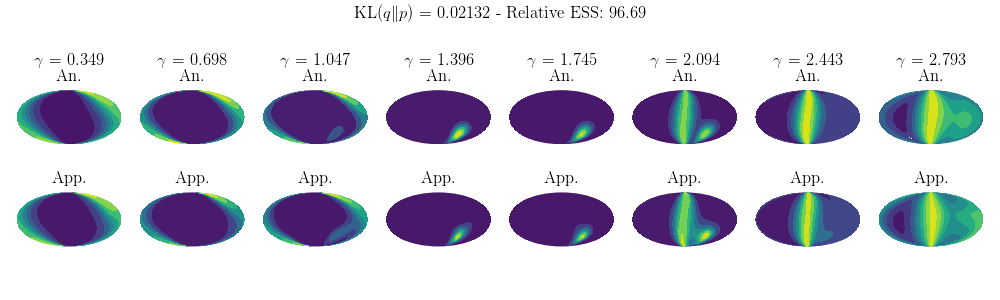
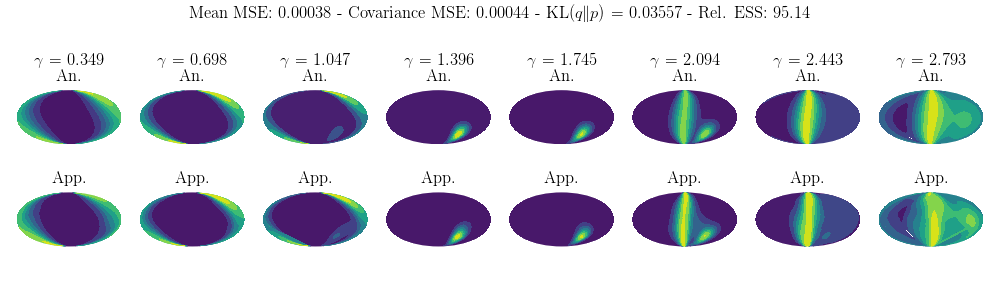
add joblist for sphere

diff --git a/examples/sphere-flow/rejection_sampling.py b/examples/sphere-flow/rejection_sampling.py
@@ -1,0 +1,93 @@
+from functools import partial
+from typing import Callable
+
+import jax.numpy as jnp
+from jax import lax, random
+
+import prax.distributions as pd
+
+
+def rejection_sampling(rng: jnp.ndarray, num_samples: int, num_dims: int, sphere_density: Callable) -> jnp.ndarray:
+    """Samples from the sphere in embedded coordinates using the uniform
+    distribution on the sphere as a proposal density.
+
+    Args:
+        rng: Pseudo-random number generator seed.
+        num_samples: Number of samples to attempt draw. The number of samples
+            returned may be smaller since some samples will be rejected.
+        num_dims: Dimensionality of the samples.
+        sphere_density: The density on the sphere from which to generate samples.
+
+    Returns:
+        samples: Samples from the distribution on the sphere.
+
+    """
+    # Precompute certain quantities used in rejection sampling. The upper bound
+    # on the density was found according to large-scale simulation.
+    # >>> rng = random.PRNGKey(0)
+    # >>> embedded_sphere_density(pd.sphere.haarsph(rng, [10000000, 3])).max()
+    prop_dens = jnp.exp(pd.sphere.haarsphlogdensity(jnp.array([0., 0., 1.])))
+    M = 25000. / prop_dens
+    denom = M * prop_dens
+
+    def cond(val):
+        """Check whether or not the proposal has been accepted.
+
+        Args:
+            val: A tuple containing the previous proposal, whether or not it was
+                accepted (it wasn't), and the current iteration of the rejection
+                sampling loop.
+
+        Returns:
+            out: A boolean for whether or not to continue sampling. If the sample
+                was rejected, try again. Otherwise, return the accepted sample.
+
+        """
+        _, isacc, _ = val
+        return jnp.logical_not(isacc)
+
+    def sample_once(sample_iter, val):
+        """Attempt to draw a single sample. If the sample is rejected, this function is
+        called in a while loop until a sample is accepted.
+
+        Args:
+            sample_iter: Sampling iteration counter.
+            val: A tuple containing the previous proposal, whether or not it was
+                accepted (it wasn't), and the current iteration of the rejection
+                sampling loop.
+
+        Returns:
+            out: A tuple containing the proposal, whether or not it was accepted, and
+                the next iteration counter.
+
+        """
+        _, _, it = val
+        rng_sample_once = random.fold_in(random.fold_in(rng, it), sample_iter)
+        rng_prop, rng_acc = random.split(rng_sample_once, 2)
+        xsph = pd.sphere.haarsph(rng_prop, [num_dims])
+        numer = sphere_density(xsph)
+        alpha = numer / denom
+        unif = random.uniform(rng_acc)
+        isacc = unif < alpha
+        return xsph, isacc, it + 1
+
+    def sample(_, it):
+        """Samples in a loop so that the total number of samples has a predictable
+        shape. The first argument is ignored. The second argument is the
+        sampling iteration.
+
+        Args:
+            _: Ignored argument for `lax.scan` compatibility.
+            it: Sampling iteration number.
+
+        Returns:
+            _, xsph: A tuple containing the ignored input quantity and the
+                accepted sample.
+
+        """
+        state = lax.while_loop(cond, partial(sample_once, it), (jnp.zeros(num_dims), False, 0))
+        xsph, isacc, num_iters = state
+        return _, xsph
+
+    _, xsph = lax.scan(sample, None, jnp.arange(num_samples))
+    return xsph

diff --git a/examples/sphere-flow/sphere.py b/examples/sphere-flow/sphere.py
@@ -12,6 +12,7 @@ from jax.experimental import optimizers, stax
 
 from coordinates import ang2euclid, hsph2euclid, sph2euclid, sph2latlon
 from mobius import mobius_flow, mobius_log_prob
+from rejection_sampling import rejection_sampling
 from spline import rational_quadratic, grad_rational_quadratic
 
 
@@ -21,7 +22,7 @@ parser.add_argument('--lr', type=float, default=1e-3, help='Gradient descent lea
 parser.add_argument('--num-samples', type=int, default=100, help='Number of samples per batch')
 parser.add_argument('--num-spline', type=int, default=32, help='Number of intervals in spline flow')
 parser.add_argument('--num-mobius', type=int, default=12, help='Number of Mobius transforms in convex combination')
-parser.add_argument('--num-hidden', type=int, default=512, help='Number of hidden units used in the neural networks')
+parser.add_argument('--num-hidden', type=int, default=64, help='Number of hidden units used in the neural networks')
 parser.add_argument('--seed', type=int, default=0, help='Pseudo-random number generator seed')
 args = parser.parse_args()
 
@@ -229,6 +230,7 @@ rng = random.PRNGKey(0)
 rng, rng_netm = random.split(rng, 2)
 rng, rng_thetax, rng_thetay, rng_thetad = random.split(rng, 4)
 rng, rng_ms, rng_train = random.split(rng, 3)
+rng, rng_xobs = random.split(rng, 2)
 
 paramsm, netm = network_factory(rng_netm, 1, args.num_mobius*2, args.num_hidden)
 thetax = random.uniform(rng_thetax, [args.num_spline])
@@ -247,8 +249,12 @@ print('number of parameters: {}'.format(num_params))
 num_samples = 100000
 xk, yk, delta = spline_unconstrained_transform(thetax, thetay, thetad)
 
+# Compute comparison statistics.
 (ra, ang), (raunif, angunif), w = mobius_spline_sample(rng_ms, num_samples, xk, yk, delta, paramsm, netm)
 xsph = torus2sphere(ra, ang)
+xobs = rejection_sampling(rng_xobs, len(xsph), xsph.shape[-1], sphere_density)
+mean_mse = jnp.square(jnp.linalg.norm(xsph.mean(0) - xobs.mean(0)))
+cov_mse = jnp.square(jnp.linalg.norm(jnp.cov(xsph.T) - jnp.cov(xobs.T)))
 log_approx = mobius_spline_log_prob(ra, raunif, ang, angunif, w, xk, yk, delta)
 approx = jnp.exp(log_approx)
 lat, lon = sph2latlon(xsph)
@@ -281,6 +287,6 @@ ax = fig.add_subplot(1, 5, 5, projection='mollweide')
 ax.scatter(lon, lat, c=target)
 ax.axis('off')
 ax.set_title('Target Density')
-plt.suptitle('KL$(q\Vert p)$ = {:.5f} - Rel. ESS: {:.2f}%'.format(kl, ress))
+plt.suptitle('Mean MSE: {:.5f} - Covariance MSE: {:.5f} - KL$(q\Vert p)$ = {:.5f} - Rel. ESS: {:.2f}%'.format(mean_mse, cov_mse, kl, ress))
 plt.tight_layout()
 plt.savefig(os.path.join('images', 'mobius-spline-density.png'))

diff --git a/examples/sphere-flow/hypersphere.py b/examples/sphere-flow/hypersphere.py
@@ -12,6 +12,7 @@ from jax.experimental import optimizers, stax
 
 from coordinates import ang2euclid, hsph2euclid, sph2euclid, sph2latlon
 from mobius import mobius_flow, mobius_log_prob
+from rejection_sampling import rejection_sampling
 from spline import rational_quadratic, grad_rational_quadratic
 
 
@@ -21,7 +22,7 @@ parser.add_argument('--lr', type=float, default=1e-3, help='Gradient descent lea
 parser.add_argument('--num-samples', type=int, default=100, help='Number of samples per batch')
 parser.add_argument('--num-spline', type=int, default=64, help='Number of intervals in spline flow')
 parser.add_argument('--num-mobius', type=int, default=32, help='Number of Mobius transforms in convex combination')
-parser.add_argument('--num-hidden', type=int, default=512, help='Number of hidden units used in the neural networks')
+parser.add_argument('--num-hidden', type=int, default=64, help='Number of hidden units used in the neural networks')
 parser.add_argument('--seed', type=int, default=0, help='Pseudo-random number generator seed')
 args = parser.parse_args()
 
@@ -295,6 +296,7 @@ rng = random.PRNGKey(0)
 rng, rng_netm, rng_netr = random.split(rng, 3)
 rng, rng_thetax, rng_thetay, rng_thetad = random.split(rng, 4)
 rng, rng_ms, rng_train = random.split(rng, 3)
+rng, rng_xobs = random.split(rng, 2)
 
 paramsr, netr = network_factory(rng_netr, 1, 3*args.num_spline-1, args.num_hidden)
 paramsm, netm = network_factory(rng_netm, 2, args.num_mobius*2, args.num_hidden)
@@ -317,6 +319,9 @@ xk, yk, deltak = spline_unconstrained_transform(thetax, thetay, thetad)
 
 (ra, rb, ang), (raunif, rbunif, angunif), (w, xl, yl, deltal) = mobius_spline_sample(rng_ms, num_samples, xk, yk, deltak, paramsm, netm, paramsr, netr)
 xsph = torus2sphere(ra, rb, ang)
+xobs = rejection_sampling(rng_xobs, len(xsph), xsph.shape[-1], sphere_density)
+mean_mse = jnp.square(jnp.linalg.norm(xsph.mean(0) - xobs.mean(0)))
+cov_mse = jnp.square(jnp.linalg.norm(jnp.cov(xsph.T) - jnp.cov(xobs.T)))
 log_approx = mobius_spline_log_prob(ra, raunif, rb, rbunif, ang, angunif, w, xk, yk, deltak, xl, yl, deltal)
 approx = jnp.exp(log_approx)
 target = sphere_density(xsph)
@@ -329,7 +334,7 @@ ress = 100 * ess / len(w)
 print('estimated KL(q || p) = {:.5f}'.format(kl))
 
 plt.figure()
-plt.title('KL$(q\Vert p)$ = {:.5f} - Rel. ESS: {:.2f}%'.format(kl, ress))
+plt.suptitle('Mean MSE: {:.5f} - Covariance MSE: {:.5f} - KL$(q\Vert p)$ = {:.5f} - Rel. ESS: {:.2f}%'.format(mean_mse, cov_mse, kl, ress))
 plt.plot(trace)
 plt.grid(linestyle=':')
 plt.xlabel('Gradient Descent Iteration')

diff --git a/examples/density-estimation/ambient-sphere/sphere.py b/examples/density-estimation/ambient-sphere/sphere.py
@@ -467,7 +467,7 @@ elif num_dims == 4:
         ax.contourf(xx, yy, dens.reshape(xx.shape))
         ax.set_axis_off()
         ax.set_title('App.')
-    plt.suptitle('KL$(q\Vert p)$ = {:.5f} - Relative ESS: {:.2f}%'.format(kl, ress))
+    plt.suptitle('Mean MSE: {:.5f} - Covariance MSE: {:.5f} - KL$(q\Vert p)$ = {:.5f} - Rel. ESS: {:.2f}%'.format(mean_mse, cov_mse, kl, ress))
     plt.tight_layout()
     ln = 'elbo' if args.elbo_loss else 'kl'
     plt.savefig(os.path.join('images', 'hyper-sphere-density-{}.png'.format(ln)))
